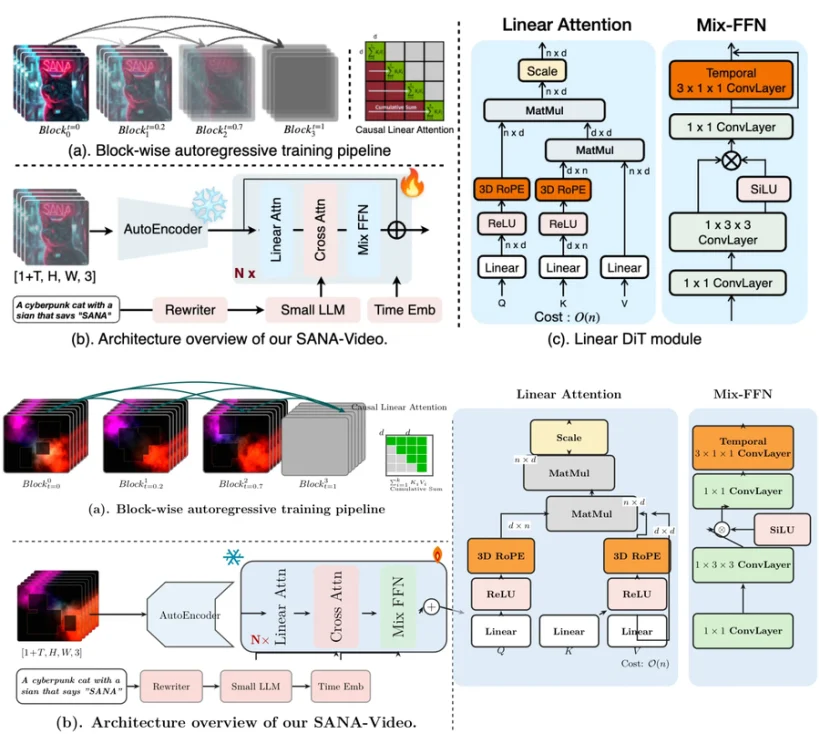
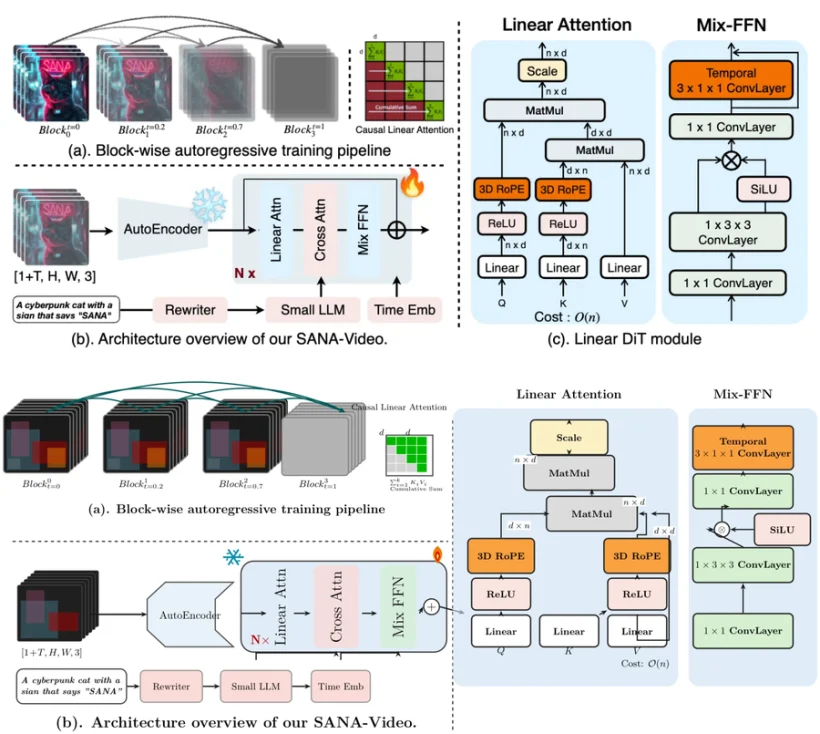
fix(cards): 05/06 的 TikZ 代码改为完全自包含（不再依赖占位图）
上一轮修好「代码能跑」后，进一步验证发现 05 仍有隐患：
代码里有两处 \\includegraphics{frame\\i.png} 和 {input.png}，
依赖 tools/figlab/assets/ 下的程序合成占位图。用户拿走代码后
因为没有这些 PNG，编译直接失败（实测报错：
  Unable to load picture or PDF file 'frame0.png'）

修法：把两处 \\includegraphics 换成**纯 TikZ 绘制**的占位块——
用黑底 + 青/红/洋红/橙半透明色块模拟「照片感」，
不需要任何外部图片文件。

验证（提取代码 → 空目录 → 编译）：
  05: 无 includegraphics，tectonic 生成 62KB PDF ✓
  06: 无 includegraphics，tectonic 生成 33KB PDF ✓
  8 张 matplotlib 图：直接 python3 运行 ✓

图片指标不变：05 墨迹 98%、06 95%，平均 100%

Changed region(s): [[0.0, 0.5395, 0.3659, 0.6594], [0.0, 0.7793, 0.122, 0.8992]]

diff --git a/tools/figlab/reps_tikz.py b/tools/figlab/reps_tikz.py
@@ -69,8 +69,13 @@ def fig05() -> str:
     \foreach \k in {5,4,3,2,1,0}{
       \begin{scope}[shift={(\k*0.12,\k*0.12)}]
         \clip[rounded corners=3pt] (0,0) rectangle (2.20,2.20);
-        \node[anchor=south west, inner sep=0pt] at (0,0)
-          {\includegraphics[width=2.20cm,height=2.20cm]{frame\i.png}};
+        % 纯 TikZ 绘制的"照片感"占位（不依赖外部图片）
+        \fill[black!90] (0,0) rectangle (2.20,2.20);
+        \fill[cyan!45!black, opacity=0.55] (0.10,0.10) rectangle (1.20,1.65);
+        \fill[red!70!black, opacity=0.50] (0.95,0.35) rectangle (2.10,1.20);
+        \fill[magenta!70!black, opacity=0.40] (0.25,0.62) rectangle (0.85,1.95);
+        \fill[orange!85!black, opacity=0.55] (1.45,0.20) rectangle (2.05,0.95);
+        \fill[white, opacity=0.12] (0.15,0.15) rectangle (0.55,0.55);
       \end{scope}
       \draw[black!50, line width=1.0pt, rounded corners=3pt]
         (\k*0.11,\k*0.11) rectangle ++(2.20,2.20);
@@ -125,8 +130,11 @@ def fig05() -> str:
   \foreach \k in {5,4,3,2,1,0}{
     \begin{scope}[shift={(\k*0.11,\k*0.11)}]
       \clip[rounded corners=2pt] (0,0) rectangle (2.15,2.15);
-      \node[anchor=south west, inner sep=0pt] at (0,0)
-        {\includegraphics[width=2.15cm,height=2.15cm]{input.png}};
+        % 纯 TikZ 绘制的输入叠层占位
+        \fill[black!88] (0,0) rectangle (2.15,2.15);
+        \fill[cyan!45!black, opacity=0.55] (0.12,0.12) rectangle (1.35,1.55);
+        \fill[red!70!black, opacity=0.50] (1.05,0.40) rectangle (2.02,1.10);
+        \fill[magenta!65!black, opacity=0.38] (0.30,0.70) rectangle (0.90,1.95);
       \draw[black!60, line width=0.8pt, rounded corners=2pt] (0,0) rectangle (2.15,2.15);
     \end{scope}
   }
